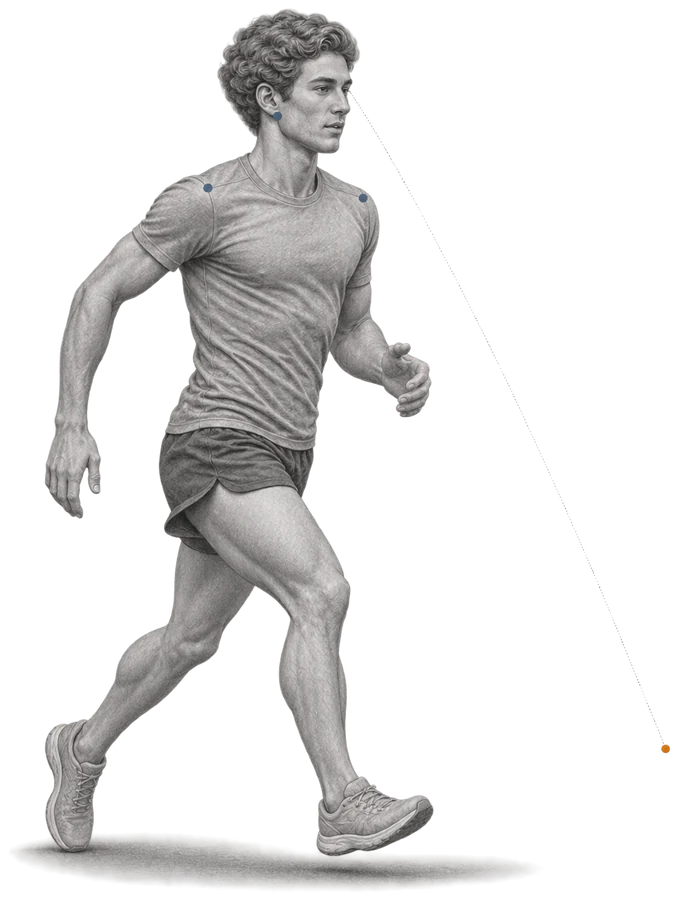
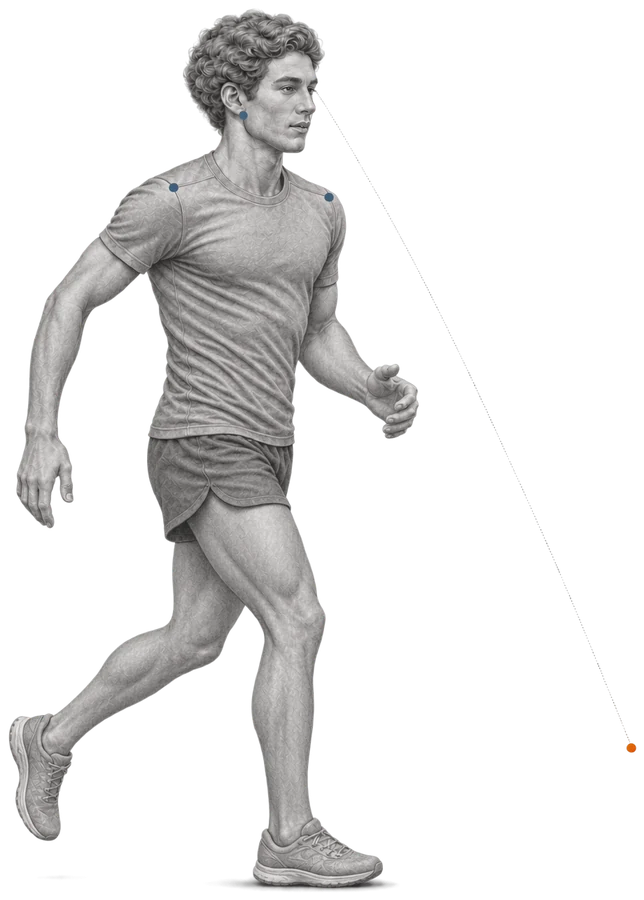
Poker face: longer legs (#597)
Claude-Session: https://claude.ai/code/session_01FwBuCoGgVzUwZtu9MbiFhK

Changed region(s): [[0.0, 0.0, 0.7764, 0.9956], [0.9627, 0.8089, 0.9938, 0.84]]

diff --git a/index.html b/index.html
@@ -216,7 +216,7 @@
   </div>
   <nav class="wrap home-cues" aria-labelledby="home-cues-title">
     <div class="home-cues-head"><h2 id="home-cues-title"><a href="/cues/">Form cues.</a></h2><a class="home-cues-all" href="/cues/">All 14 <svg viewBox="0 0 24 24" aria-hidden="true" focusable="false"><path d="M5 19 19 5M5 5h14v14"/></svg></a></div>
-    <ul class="home-cues-row"><li><a href="/cues/poker-face/"><img src="/assets/cues/poker-face-600.webp" width="339" height="450" alt="A runner at speed with a relaxed face, a faint dotted line running from his eyes to a point far ahead on the ground." loading="lazy" decoding="async"><span>Poker face</span></a></li><li><a href="/cues/long-neck/"><img src="/assets/cues/long-neck-600.webp" width="382" height="450" alt="A runner from the side, tall, with a level chin and eyes a little way ahead." loading="lazy" decoding="async"><span>Long neck</span></a></li><li><a href="/cues/quiet-shoulders/"><img src="/assets/cues/quiet-shoulders-600.webp" width="196" height="450" alt="A runner from the front with level, relaxed shoulders while the arms swing." loading="lazy" decoding="async"><span>Quiet shoulders</span></a></li><li><a href="/cues/four-lights/"><img src="/assets/cues/four-lights-600.webp" width="170" height="450" alt="A runner from the front, with small lights marking both shoulders and both hips, all square and facing forward." loading="lazy" decoding="async"><span>Four lights</span></a></li><li><a href="/cues/elbows-back/"><img src="/assets/cues/elbows-back-600.webp" width="326" height="450" alt="A runner from the side driving one elbow back behind the body." loading="lazy" decoding="async"><span>Elbows back</span></a></li><li><a href="/cues/low-hands/"><img src="/assets/cues/low-hands-600.webp" width="177" height="450" alt="A runner with loose hands passing low, close to the hips." loading="lazy" decoding="async"><span>Low hands</span></a></li><li><a href="/cues/soft-hands/"><img src="/assets/cues/soft-hands-600.webp" width="220" height="450" alt="A runner from the front with loose, relaxed hands." loading="lazy" decoding="async"><span>Soft hands</span></a></li><li><a href="/cues/hips-forward/"><img src="/assets/cues/hips-forward-600.webp" width="393" height="450" alt="A runner from the side, tall, with a thin orange rope pulling forward from the belt buckle." loading="lazy" decoding="async"><span>Hips forward</span></a></li><li><a href="/cues/lean-from-the-ankles/"><img src="/assets/cues/lean-from-the-ankles-600.webp" width="210" height="450" alt="A runner from the side, one straight line from ankle to hip to shoulder to ear, tipped slightly forward past a faint upright outline of himself." loading="lazy" decoding="async"><span>Lean from the ankles</span></a></li><li><a href="/cues/tall-spring/"><img src="/assets/cues/tall-spring-600.webp" width="279" height="450" alt="A tall runner from the side with a light coil drawn around the standing leg." loading="lazy" decoding="async"><span>Tall spring</span></a></li><li><a href="/cues/land-under-you/"><img src="/assets/cues/land-under-you-600.webp" width="268" height="450" alt="A runner from the side with the front foot landing under the hips, on a small coin." loading="lazy" decoding="async"><span>Land under you</span></a></li><li><a href="/cues/quick-feet/"><img src="/assets/cues/quick-feet-600.webp" width="268" height="450" alt="A runner from the side, one foot barely touching the ground with small heat lines under it." loading="lazy" decoding="async"><span>Quick feet</span></a></li><li><a href="/cues/straight-feet/"><img src="/assets/cues/straight-feet-600.webp" width="167" height="450" alt="A runner from the front with both feet landing pointed straight ahead." loading="lazy" decoding="async"><span>Straight feet</span></a></li><li><a href="/cues/gears/"><img src="/assets/cues/gears-600.webp" width="450" height="450" alt="Three overlapping drawings of one runner, each leaning a little more and striding a little quicker, the last one solid." loading="lazy" decoding="async"><span>Gears</span></a></li></ul>
+    <ul class="home-cues-row"><li><a href="/cues/poker-face/"><img src="/assets/cues/poker-face-600.webp" width="322" height="450" alt="A runner at speed with a relaxed face, a faint dotted line running from his eyes to a point far ahead on the ground." loading="lazy" decoding="async"><span>Poker face</span></a></li><li><a href="/cues/long-neck/"><img src="/assets/cues/long-neck-600.webp" width="382" height="450" alt="A runner from the side, tall, with a level chin and eyes a little way ahead." loading="lazy" decoding="async"><span>Long neck</span></a></li><li><a href="/cues/quiet-shoulders/"><img src="/assets/cues/quiet-shoulders-600.webp" width="196" height="450" alt="A runner from the front with level, relaxed shoulders while the arms swing." loading="lazy" decoding="async"><span>Quiet shoulders</span></a></li><li><a href="/cues/four-lights/"><img src="/assets/cues/four-lights-600.webp" width="170" height="450" alt="A runner from the front, with small lights marking both shoulders and both hips, all square and facing forward." loading="lazy" decoding="async"><span>Four lights</span></a></li><li><a href="/cues/elbows-back/"><img src="/assets/cues/elbows-back-600.webp" width="326" height="450" alt="A runner from the side driving one elbow back behind the body." loading="lazy" decoding="async"><span>Elbows back</span></a></li><li><a href="/cues/low-hands/"><img src="/assets/cues/low-hands-600.webp" width="177" height="450" alt="A runner with loose hands passing low, close to the hips." loading="lazy" decoding="async"><span>Low hands</span></a></li><li><a href="/cues/soft-hands/"><img src="/assets/cues/soft-hands-600.webp" width="220" height="450" alt="A runner from the front with loose, relaxed hands." loading="lazy" decoding="async"><span>Soft hands</span></a></li><li><a href="/cues/hips-forward/"><img src="/assets/cues/hips-forward-600.webp" width="393" height="450" alt="A runner from the side, tall, with a thin orange rope pulling forward from the belt buckle." loading="lazy" decoding="async"><span>Hips forward</span></a></li><li><a href="/cues/lean-from-the-ankles/"><img src="/assets/cues/lean-from-the-ankles-600.webp" width="210" height="450" alt="A runner from the side, one straight line from ankle to hip to shoulder to ear, tipped slightly forward past a faint upright outline of himself." loading="lazy" decoding="async"><span>Lean from the ankles</span></a></li><li><a href="/cues/tall-spring/"><img src="/assets/cues/tall-spring-600.webp" width="279" height="450" alt="A tall runner from the side with a light coil drawn around the standing leg." loading="lazy" decoding="async"><span>Tall spring</span></a></li><li><a href="/cues/land-under-you/"><img src="/assets/cues/land-under-you-600.webp" width="268" height="450" alt="A runner from the side with the front foot landing under the hips, on a small coin." loading="lazy" decoding="async"><span>Land under you</span></a></li><li><a href="/cues/quick-feet/"><img src="/assets/cues/quick-feet-600.webp" width="268" height="450" alt="A runner from the side, one foot barely touching the ground with small heat lines under it." loading="lazy" decoding="async"><span>Quick feet</span></a></li><li><a href="/cues/straight-feet/"><img src="/assets/cues/straight-feet-600.webp" width="167" height="450" alt="A runner from the front with both feet landing pointed straight ahead." loading="lazy" decoding="async"><span>Straight feet</span></a></li><li><a href="/cues/gears/"><img src="/assets/cues/gears-600.webp" width="450" height="450" alt="Three overlapping drawings of one runner, each leaning a little more and striding a little quicker, the last one solid." loading="lazy" decoding="async"><span>Gears</span></a></li></ul>
   </nav>
   <nav class="wrap home-training-paths" aria-label="Ways to train">
     <h2>Train.</h2>

diff --git a/cues/index.html b/cues/index.html
@@ -16,7 +16,7 @@
 <main>
 <section class="cues-shell cues-head"><h1>Form cues.</h1></section>
 <ul class="cues-shell cues-grid">
-  <li><a href="/cues/poker-face/"><div class="cues-figure"><img src="/assets/cues/poker-face-600.webp" srcset="/assets/cues/poker-face-600.webp 1x, /assets/cues/poker-face-900.webp 2x" width="339" height="450" alt="A runner at speed with a relaxed face, a faint dotted line running from his eyes to a point far ahead on the ground." loading="lazy" decoding="async"></div><strong>Poker face</strong><span>Hard pace, easy face. Eyes soft and ahead, jaw loose.</span></a></li>
+  <li><a href="/cues/poker-face/"><div class="cues-figure"><img src="/assets/cues/poker-face-600.webp" srcset="/assets/cues/poker-face-600.webp 1x, /assets/cues/poker-face-900.webp 2x" width="322" height="450" alt="A runner at speed with a relaxed face, a faint dotted line running from his eyes to a point far ahead on the ground." loading="lazy" decoding="async"></div><strong>Poker face</strong><span>Hard pace, easy face. Eyes soft and ahead, jaw loose.</span></a></li>
   <li><a href="/cues/long-neck/"><div class="cues-figure"><img src="/assets/cues/long-neck-600.webp" srcset="/assets/cues/long-neck-600.webp 1x, /assets/cues/long-neck-900.webp 2x" width="382" height="450" alt="A runner from the side, tall, with a level chin and eyes a little way ahead." loading="lazy" decoding="async"></div><strong>Long neck</strong><span>Keep your chin level. Look at the ground a little way ahead.</span></a></li>
   <li><a href="/cues/quiet-shoulders/"><div class="cues-figure"><img src="/assets/cues/quiet-shoulders-600.webp" srcset="/assets/cues/quiet-shoulders-600.webp 1x, /assets/cues/quiet-shoulders-900.webp 2x" width="196" height="450" alt="A runner from the front with level, relaxed shoulders while the arms swing." loading="lazy" decoding="async"></div><strong>Quiet shoulders</strong><span>Keep your shoulders low and still. Only your arms swing.</span></a></li>
   <li><a href="/cues/four-lights/"><div class="cues-figure"><img src="/assets/cues/four-lights-600.webp" srcset="/assets/cues/four-lights-600.webp 1x, /assets/cues/four-lights-900.webp 2x" width="170" height="450" alt="A runner from the front, with small lights marking both shoulders and both hips, all square and facing forward." loading="lazy" decoding="async"></div><strong>Four lights</strong><span>Keep your shoulders right on top of your hips.</span></a></li>

diff --git a/cues/poker-face/index.html b/cues/poker-face/index.html
@@ -15,7 +15,7 @@
 <div class="cues-top"><header class="cues-shell sf-menu-host"><a class="sf-brand" href="/" aria-label="Speed and Form home"></a><a class="sf-menu-toggle" href="#site-menu" aria-controls="site-menu" aria-label="Menu"><svg viewBox="0 0 24 24" aria-hidden="true" focusable="false"><path d="M3 6h18M3 12h18M3 18h18"/></svg></a></header></div>
 <main>
 <article class="cues-shell cue">
-  <figure class="cue-figure"><img src="/assets/cues/poker-face-900.webp" width="678" height="900" alt="A runner at speed with a relaxed face, a faint dotted line running from his eyes to a point far ahead on the ground." fetchpriority="high" decoding="async"></figure>
+  <figure class="cue-figure"><img src="/assets/cues/poker-face-900.webp" width="644" height="900" alt="A runner at speed with a relaxed face, a faint dotted line running from his eyes to a point far ahead on the ground." fetchpriority="high" decoding="async"></figure>
   <div class="cue-copy">
     <h1>Poker face</h1>
     <p class="cue-do">Hard pace, easy face. Eyes soft and ahead, jaw loose.</p>
